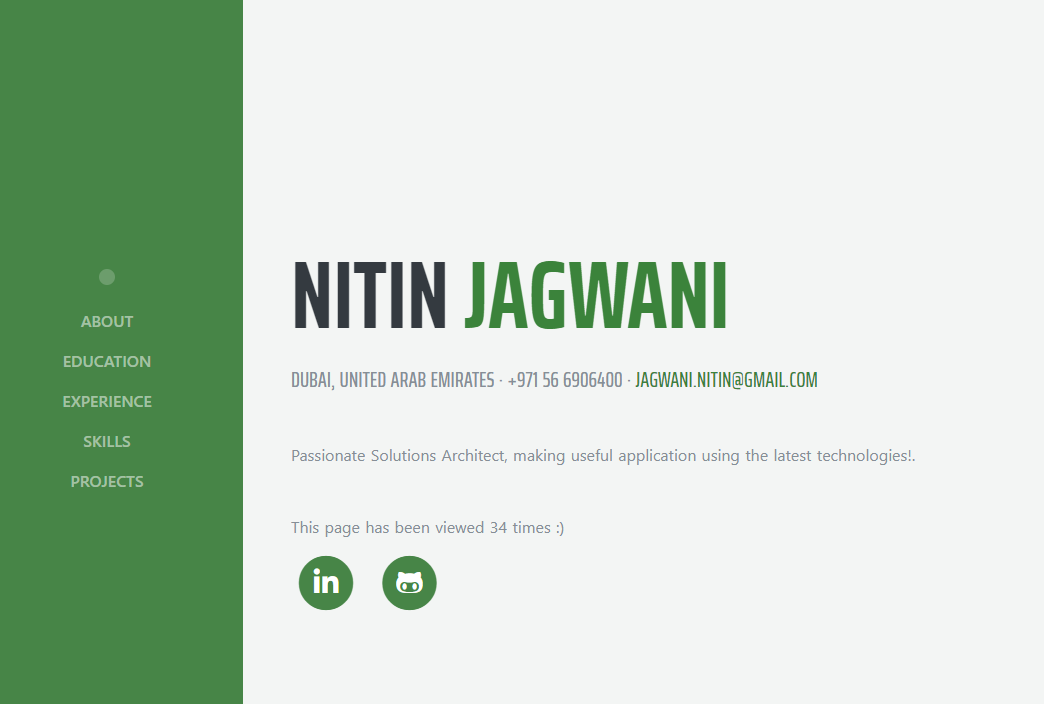
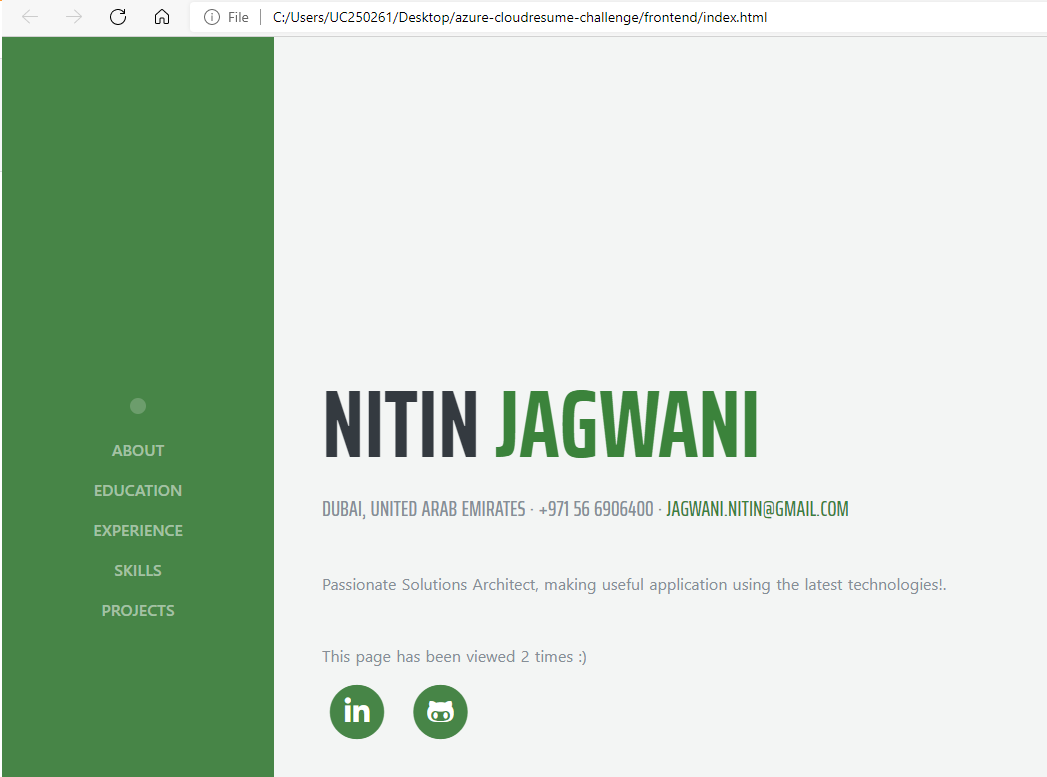
Updates images

diff --git a/README.md b/README.md
@@ -47,7 +47,7 @@ I then created my Database, Container and Items under "Data Explorer" of Azure C
 
 The Items inside in my Database included the id and count. Since, we need counter for 1 website, the id was set to 1 and count was set to 0 as we dont have any visitors. 
 
-![](images/AzureResumeCounter-Cosmos%20DB.PNG)
+![](images/AzureCounterIDCountonCosmosDB.PNG)
 
 The Next step was to create an Azure Function, connect Azure DB bindings to the function and then view the counter data via the function.
 
@@ -79,8 +79,19 @@ Later on, I was then able to get the code to work with Cosmos DB bindings by per
 
 Now that I had the function running locally & was able to view the counter data on the browser, the next step was to merge frontend with the backend. 
 
+![](images/LocalURLdisplayingthecount.PNG)
+
 #### Merge Frontend with Backend 🚀
 
 I then navigated to main.js (located in the frontend folder) and updated the API URL with the functions local URL. 
 
 I then ran the function locally (func host start command) and then opened index.html file (located in the frontend folder) to make sure that I was able to view the counter data. I was able to view the counter data successfully and was able to test the same on AZ Cosmos DB account where the count also changed. 
+
+![](images/IntegrateCounterFunctionrunningthecounterfunctiongenerateslocalURL.PNG)
+
+
+
+![](images/CountmatchingoncosmosDBsameasLocalURL.PNG)
+
+
+![](images/ResumePageDisplayingtheCounterforPageViews.PNG)
